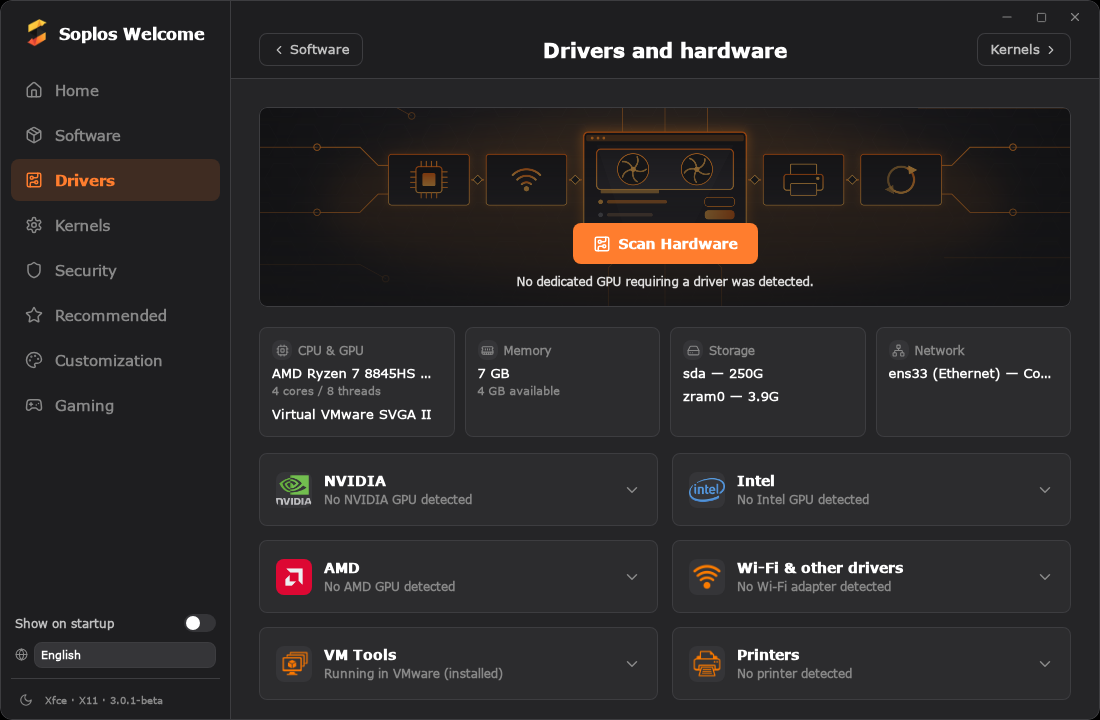
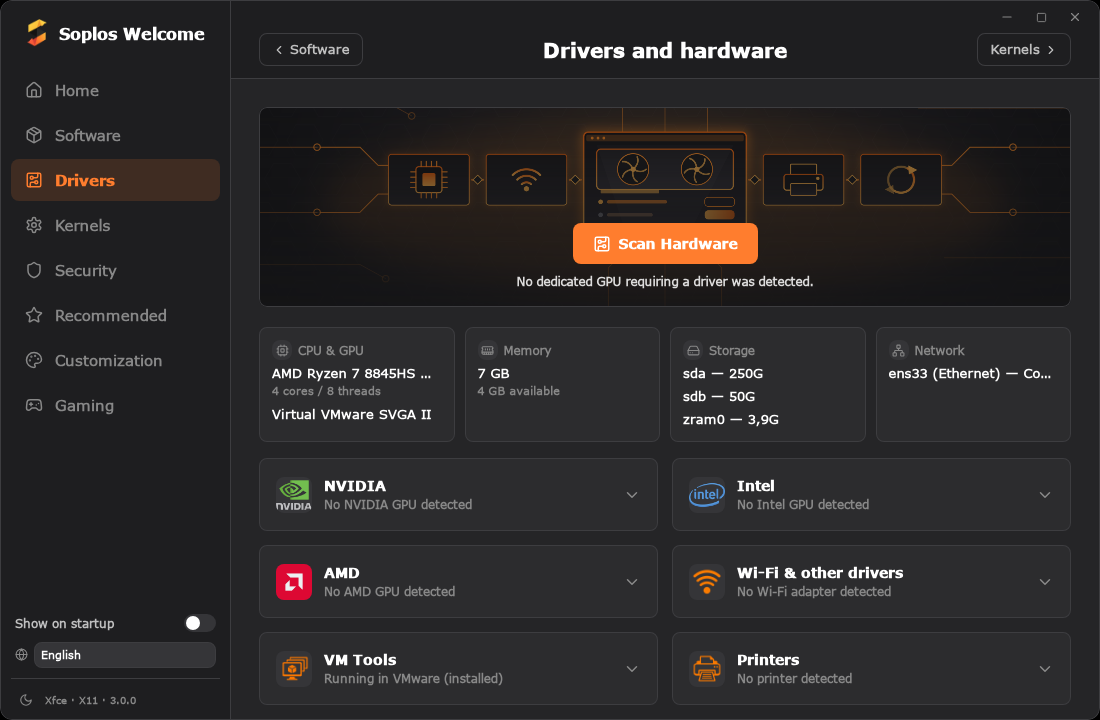
3.0.0: first stable release, Epic Games Launcher from its .deb, Antigravity latest version, new screenshots

diff --git a/src/views/Gaming.svelte b/src/views/Gaming.svelte
@@ -124,8 +124,8 @@
       name: "Epic Games Launcher",
       icon: "/assets/icons/gaming/epic-games-launcher.png",
       kind: "custom",
-      badgeKind: "appimage",
-      checkPath: "~/AppImages/EpicGamesLauncher-x86_64.AppImage",
+      badgeKind: "deb",
+      checkPath: "/usr/bin/EpicGamesLauncher",
       customInstall: "install_epic_games_launcher",
       customUninstall: "uninstall_epic_games_launcher",
     },

diff --git a/src-tauri/src/commands/recommended.rs b/src-tauri/src/commands/recommended.rs
@@ -268,8 +268,8 @@ update-desktop-database "$REAL_HOME/.local/share/applications" 2>/dev/null || tr
 const ANTIGRAVITY_DESKTOP_ENTRY: &str = "[Desktop Entry]\nName=Antigravity\nExec=/opt/antigravity/antigravity-ide\nIcon=/usr/share/pixmaps/antigravity.png\nType=Application\nCategories=Development;\nComment=Advanced Agentic AI Coding Assistant\n";
 
 // The version this tarball points to — bump when a newer release is published.
-const ANTIGRAVITY_LATEST_VERSION: &str = "2.6.0";
-const ANTIGRAVITY_DOWNLOAD_URL: &str = "https://edgedl.me.gvt1.com/edgedl/release2/j0qc3/antigravity/stable/2.6.0/linux-x64/Antigravity%20IDE.tar.gz";
+const ANTIGRAVITY_LATEST_VERSION: &str = "2.7.0";
+const ANTIGRAVITY_DOWNLOAD_URL: &str = "https://edgedl.me.gvt1.com/edgedl/release2/j0qc3/antigravity/stable/2.7.0-4507555968450560/linux-x64/Antigravity%20IDE.tar.gz";
 
 #[tauri::command]
 pub fn install_antigravity() -> u64 {
@@ -301,11 +301,31 @@ pub struct AntigravityStatus {
     update_available: bool,
 }
 
+// The latest version, read from the download page (the same link the install
+// takes: …/antigravity/stable/<version>-<build>/linux-x64/…). Google keeps no
+// fixed "latest" address, so the constant is only the fallback without network.
+fn antigravity_latest_version() -> String {
+    std::process::Command::new("curl")
+        .args(["-sL", "--max-time", "8", "https://antigravity.google/download"])
+        .output()
+        .ok()
+        .and_then(|out| {
+            let page = String::from_utf8_lossy(&out.stdout);
+            let start = page.find("/antigravity/stable/")? + "/antigravity/stable/".len();
+            let rest = &page[start..];
+            let end = rest.find("/linux-x64/")?;
+            let version = rest[..end].split('-').next()?.to_string();
+            (!version.is_empty() && version.chars().all(|c| c.is_ascii_digit() || c == '.')).then_some(version)
+        })
+        .unwrap_or_else(|| ANTIGRAVITY_LATEST_VERSION.to_string())
+}
+
 // Reads the installed version straight from the Electron app's own
 // product.json (ideVersion) instead of package.json (which only holds
-// the underlying VS Code version like 1.107.0).
+// the underlying VS Code version like 1.107.0). Async, so the download page
+// is read off the main thread.
 #[tauri::command]
-pub fn get_antigravity_status() -> AntigravityStatus {
+pub async fn get_antigravity_status() -> AntigravityStatus {
     let installed_version = std::fs::read_to_string("/opt/antigravity/resources/app/product.json")
         .ok()
         .and_then(|contents| serde_json::from_str::<serde_json::Value>(&contents).ok())
@@ -316,14 +336,21 @@ pub fn get_antigravity_status() -> AntigravityStatus {
                 .map(str::to_string)
         });
 
+    let latest_version = if installed_version.is_some() {
+        tauri::async_runtime::spawn_blocking(antigravity_latest_version)
+            .await
+            .unwrap_or_else(|_| ANTIGRAVITY_LATEST_VERSION.to_string())
+    } else {
+        ANTIGRAVITY_LATEST_VERSION.to_string()
+    };
     let update_available = match &installed_version {
-        Some(v) => v != ANTIGRAVITY_LATEST_VERSION,
+        Some(v) => *v != latest_version,
         None => false,
     };
 
     AntigravityStatus {
         installed_version,
-        latest_version: ANTIGRAVITY_LATEST_VERSION.to_string(),
+        latest_version,
         update_available,
     }
 }
@@ -748,58 +775,30 @@ echo "Xodus Nexus removed.""#
     )
 }
 
-// Epic Games Launcher — Epic's own Linux AppImage. The URL always serves the
-// current build (it redirects to a versioned file on Epic's CDN), and Epic
-// publishes no checksum, so it is downloaded over HTTPS without one. The
-// desktop entry carries the com.epicgames.launcher URL scheme the launcher
-// registers itself for, so the browser login can hand control back to it.
-const EPIC_DESKTOP_ENTRY: &str = "[Desktop Entry]\nName=Epic Games Launcher\nExec=%HOME%/AppImages/EpicGamesLauncher-x86_64.AppImage %u\nIcon=%HOME%/AppImages/.icons/epic-games-launcher.png\nType=Application\nCategories=Game;\nComment=Epic Games Launcher\nStartupWMClass=EpicGamesLauncher\nMimeType=x-scheme-handler/com.epicgames.launcher;\nTerminal=false\n";
-
+// Epic Games Launcher — Epic's own Linux .deb (package epic-games-launcher,
+// /usr/bin/EpicGamesLauncher). The URL always serves the current build, and
+// Epic publishes no checksum, so it is downloaded over HTTPS without one. The
+// package brings its desktop entry with the com.epicgames.launcher URL scheme,
+// so the browser login can hand control back to it.
 #[tauri::command]
-pub fn install_epic_games_launcher(app: tauri::AppHandle) -> Result<u64, String> {
-    use tauri::Manager;
-    let icon = app
-        .path()
-        .resolve("resources/appimage-icons/epic-games-launcher.png", tauri::path::BaseDirectory::Resource)
-        .map_err(|e| e.to_string())?
-        .to_string_lossy()
-        .into_owned();
-    Ok(start_job(
-        "bash",
-        vec![
-            "-c".to_string(),
-            format!(
-                r#"{VERIFY_DOWNLOAD_SH}
-mkdir -p "$HOME/AppImages/.icons"
-mkdir -p "$HOME/.local/share/applications"
+pub fn install_epic_games_launcher() -> u64 {
+    start_pkexec_job(format!(
+        r#"{VERIFY_DOWNLOAD_SH}
 echo "Downloading Epic Games Launcher..."
-EPIC_DEST="$HOME/AppImages/EpicGamesLauncher-x86_64.AppImage"
-verify_and_download "https://launcher-public-service-prod06.ol.epicgames.com/launcher/api/installer/download/EpicGamesLauncher-x86_64.AppImage" "$EPIC_DEST"
-chmod +x "$EPIC_DEST"
-cp "{icon}" "$HOME/AppImages/.icons/epic-games-launcher.png"
-printf '%s' '{EPIC_DESKTOP_ENTRY}' | sed "s|%HOME%|$HOME|g" > "$HOME/.local/share/applications/epic-games-launcher.desktop"
-update-desktop-database "$HOME/.local/share/applications" 2>/dev/null || true
-xdg-mime default epic-games-launcher.desktop x-scheme-handler/com.epicgames.launcher 2>/dev/null || true
+verify_and_download "https://launcher-public-service-prod06.ol.epicgames.com/launcher/api/installer/download/EpicGamesLauncher-x86_64.deb" /tmp/epic-games-launcher.deb
+apt install -y /tmp/epic-games-launcher.deb
+rm -f /tmp/epic-games-launcher.deb
 echo "Epic Games Launcher installed.""#
-            ),
-        ],
     ))
 }
 
 #[tauri::command]
 pub fn uninstall_epic_games_launcher() -> u64 {
-    start_job(
-        "bash",
-        vec![
-            "-c".to_string(),
-            r#"echo "Removing Epic Games Launcher..."
-rm -f "$HOME/AppImages/EpicGamesLauncher-x86_64.AppImage"
-rm -f "$HOME/AppImages/.icons/epic-games-launcher.png"
-rm -f "$HOME/.local/share/applications/epic-games-launcher.desktop"
-update-desktop-database "$HOME/.local/share/applications" 2>/dev/null || true
+    start_pkexec_job(
+        r#"echo "Removing Epic Games Launcher..."
+apt remove -y epic-games-launcher
 echo "Epic Games Launcher removed.""#
-                .to_string(),
-        ],
+            .to_string(),
     )
 }
 

diff --git a/src-tauri/src/commands/security.rs b/src-tauri/src/commands/security.rs
@@ -195,7 +195,7 @@ mkdir -p "{home}/AppImages/.icons"
 verify_and_download "https://github.com/oguzhaninan/Stacer/releases/download/v1.1.0/Stacer-1.1.0-x64.AppImage" "{home}/AppImages/Stacer.AppImage"
 chmod +x "{home}/AppImages/Stacer.AppImage"
 mkdir -p "{home}/.local/share/applications"
-wget -q -O "{home}/AppImages/.icons/stacer.png" "https://raw.githubusercontent.com/oguzhaninan/Stacer/master/stacer/images/stacer.png" || true
+wget -q -O "{home}/AppImages/.icons/stacer.png" "https://raw.githubusercontent.com/oguzhaninan/Stacer/master/icons/hicolor/256x256/apps/stacer.png" || true
 cat > "{home}/.local/share/applications/stacer.desktop" << EOF
 [Desktop Entry]
 Name=Stacer

diff --git a/CHANGELOG.md b/CHANGELOG.md
@@ -2,6 +2,22 @@
 
 All notable changes to Soplos Welcome are documented in this file.
 
+## [3.0.0] - 2026-11-15
+
+First stable release of Soplos Welcome 3.0. The version starts again at 3.0.0, without revision: the betas (up to 3.0.2-5-beta) were only for the development team and have to be removed before installing it.
+
+### Changed
+
+- Gaming: the Epic Games Launcher installs from Epic's own Linux package (`EpicGamesLauncher-x86_64.deb`, package `epic-games-launcher`) instead of the AppImage, whose address no longer exists. It is installed and removed with apt, and the package brings its menu entry, its icon and the `com.epicgames.launcher` link for the browser login.
+- Recommended: Antigravity reads its latest version from its download page, the same one the installation takes, so the update notice follows every new release without a new version of Welcome. The address kept for installing without that page is the 2.7.0 one.
+- New screenshots of the eight sections, in English.
+- The AppStream metadata lists 3.0.0 as the only release: the betas were internal, and the software centers would sort them above 3.0.0. Their history stays in this file.
+
+### Fixed
+
+- Security: the icon of Stacer moved in its repository; it is downloaded from `icons/hicolor/256x256/apps/stacer.png` now.
+- Every address Welcome uses was checked: repositories, keys, downloads and pages answer.
+
 ## [3.0.2-5-beta] - 2026-11-14
 
 ### Changed

diff --git a/README.md b/README.md
@@ -1,6 +1,6 @@
 # Soplos Welcome 3.0
 
-![Version](https://img.shields.io/badge/version-3.0.2--5--beta-blue)
+![Version](https://img.shields.io/badge/version-3.0.0-blue)
 ![License](https://img.shields.io/badge/license-GPL--3.0--or--later-green)
 ![Platform](https://img.shields.io/badge/platform-Linux-lightgrey)
 ![Tauri](https://img.shields.io/badge/Tauri-2-orange)
